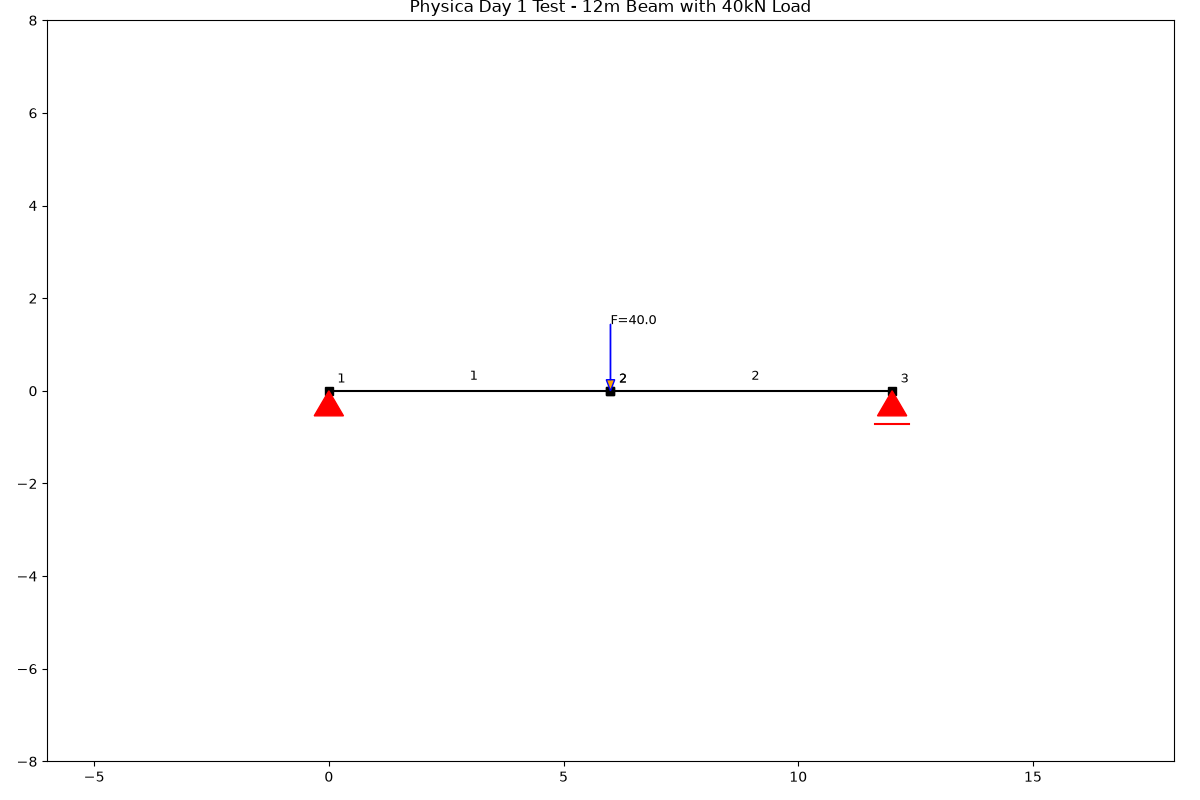
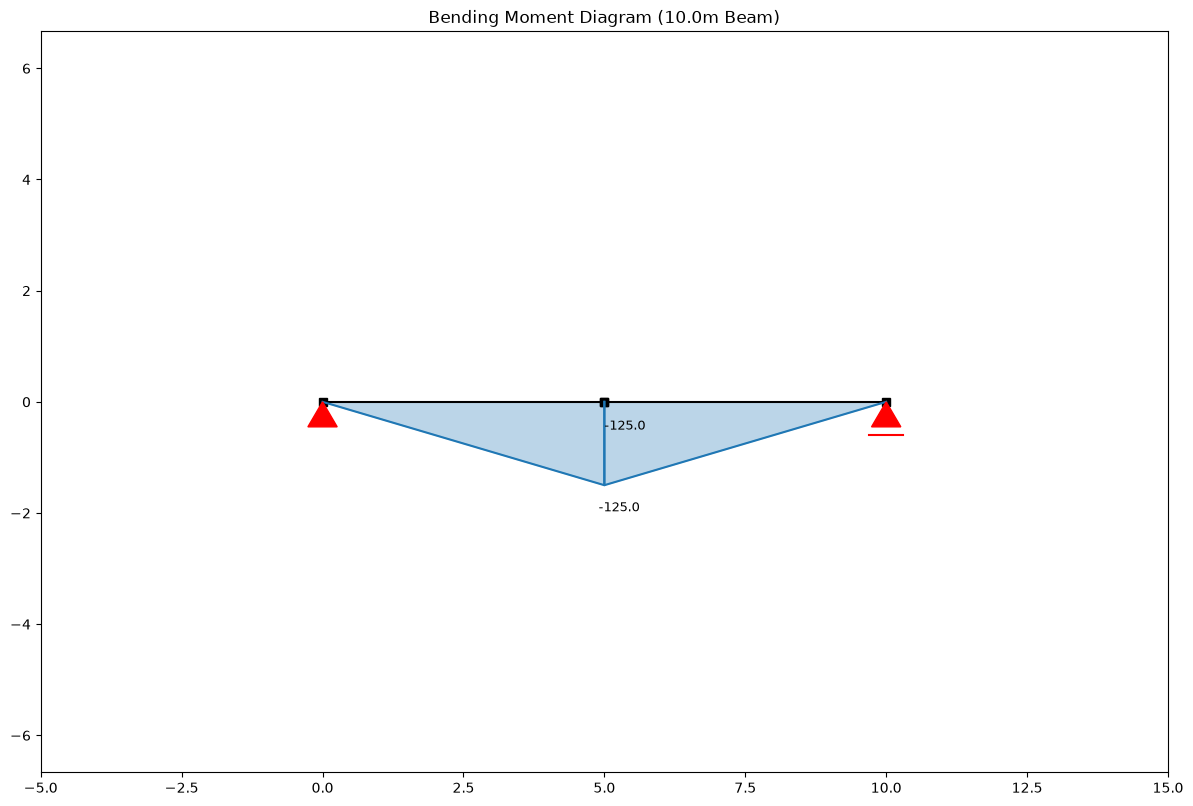
feat: add pydantic schemas and integrate with solver

diff --git a/solver.py b/solver.py
@@ -1,31 +1,66 @@
-from anastruct import SystemElements
+import matplotlib
+matplotlib.use('Agg')
 import matplotlib.pyplot as plt
+from anastruct import SystemElements
+from schemas import BeamAnalysisRequest, SupportSchema, PointLoadSchema
 
-def test_physics_engine():
-    # Initialize a 2D structural system
+def solve_beam(request: BeamAnalysisRequest, output_image_path: str = "test_output.png") -> dict:
+    """
+    Solves a 2D beam using a validated BeamAnalysisRequest object.
+    Returns analysis summary dictionary and saves the moment diagram.
+    """
     ss = SystemElements()
-    
-    # Define a 12-meter beam (two 6-meter elements connected at x=6)
-    ss.add_element(location=[[0, 0], [6, 0]])
-    ss.add_element(location=[[6, 0], [12, 0]])
-    
-    # Add supports: Hinge at left end (x=0), Roller at right end (x=12)
-    ss.add_support_hinged(node_id=1)
-    ss.add_support_roll(node_id=3, direction=2)
-    
-    # Apply a 40 kN downward point load at center node (x=6)
-    ss.point_load(node_id=2, Fy=-40.0)
-    
-    # Calculate global stiffness matrix and solve
+    element_length = request.length / request.num_elements
+
+    # Build beam topology
+    for i in range(request.num_elements):
+        ss.add_element(location=[[i * element_length, 0], [(i + 1) * element_length, 0]])
+
+    # Apply supports
+    for sup in request.supports:
+        if sup.type == "hinge":
+            ss.add_support_hinged(node_id=sup.node_id)
+        elif sup.type == "roller":
+            ss.add_support_roll(node_id=sup.node_id)
+        elif sup.type == "fixed":
+            ss.add_support_fixed(node_id=sup.node_id)
+
+    # Apply point loads
+    for load in request.point_loads:
+        ss.point_load(node_id=load.node_id, Fy=load.Fy, Fx=load.Fx)
+
+    # Calculate FEA forces
     ss.solve()
-    
-    print("✅ Anastruct FEA solver executed successfully!")
-    
-    # Save visualization to image
-    ss.show_structure(show=False)
-    plt.title("Physica Day 1 Test - 12m Beam with 40kN Load")
-    plt.savefig("test_output.png")
-    print("✅ Diagram rendered and saved as 'test_output.png'")
+
+    # Render bending moment diagram
+    fig = ss.show_bending_moment(show=False)
+    plt.title(f"Bending Moment Diagram ({request.length}m Beam)")
+    plt.savefig(output_image_path, bbox_inches='tight')
+    plt.close('all')
+
+    return {
+        "status": "success",
+        "length": request.length,
+        "elements": request.num_elements,
+        "diagram_path": output_image_path
+    }
 
 if __name__ == "__main__":
-    test_physics_engine()
+    print("Testing solver.py integration with Pydantic...")
+
+    # Build validated request
+    req = BeamAnalysisRequest(
+        length=10.0,
+        num_elements=2,
+        supports=[
+            SupportSchema(node_id=1, type="hinge"),
+            SupportSchema(node_id=3, type="roller")
+        ],
+        point_loads=[
+            PointLoadSchema(node_id=2, Fy=-50.0, Fx=0.0)
+        ]
+    )
+
+    result = solve_beam(req)
+    print("✅ Solver successfully integrated with Pydantic schema!")
+    print(f"Result summary: {result}")

diff --git a/schemas.py b/schemas.py
@@ -1,0 +1,53 @@
+from typing import List, Literal, Optional
+from pydantic import BaseModel, Field, field_validator
+
+class SupportSchema(BaseModel):
+    node_id: int = Field(..., description="The node ID where the support is located (1-indexed)")
+    type: Literal["hinge", "roller", "fixed"] = Field(..., description="Type of structural support")
+
+class PointLoadSchema(BaseModel):
+    node_id: int = Field(..., description="Node ID where the point load is applied")
+    Fy: float = Field(..., description="Vertical force component in kN (negative for downward)")
+    Fx: float = Field(default=0.0, description="Horizontal force component in kN")
+
+class BeamAnalysisRequest(BaseModel):
+    length: float = Field(..., gt=0, description="Total length of the beam in meters")
+    num_elements: int = Field(default=2, ge=1, le=20, description="Number of elements to divide the beam into")
+    supports: List[SupportSchema] = Field(..., min_length=1, description="List of supports applied to the structure")
+    point_loads: List[PointLoadSchema] = Field(default_factory=list, description="List of point loads applied to the structure")
+
+    @field_validator("length")
+    def validate_length(cls, v):
+        if v > 100:
+            raise ValueError("Beam length cannot exceed 100 meters for standard 2D analysis.")
+        return v
+
+if __name__ == "__main__":
+    print("Testing Pydantic schema validation...")
+    
+    valid_data = {
+        "length": 12.0,
+        "num_elements": 2,
+        "supports": [
+            {"node_id": 1, "type": "hinge"},
+            {"node_id": 3, "type": "roller"}
+        ],
+        "point_loads": [
+            {"node_id": 2, "Fy": -40.0, "Fx": 0.0}
+        ]
+    }
+    
+    validated = BeamAnalysisRequest(**valid_data)
+    print("✅ Valid payload successfully parsed!")
+    print(f"Structure dump: {validated.model_dump_json(indent=2)}")
+
+    print("\nTesting validation error catching...")
+    invalid_data = {
+        "length": -5.0,
+        "supports": [{"node_id": 1, "type": "pin"}]
+    }
+    try:
+        BeamAnalysisRequest(**invalid_data)
+    except Exception as e:
+        print("✅ Correctly rejected invalid data with Pydantic error:")
+        print(e)
